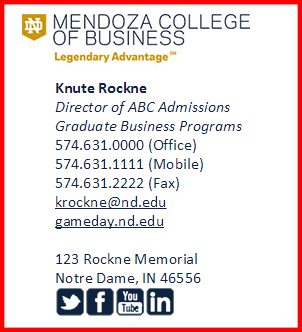
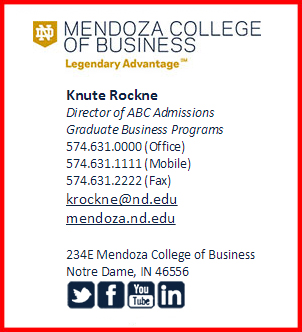
made font size smaller

Changed region(s): [[0.1788, 0.241, 0.8046, 0.6928], [0.0596, 0.0301, 0.8642, 0.2108], [0.1788, 0.753, 0.8642, 0.9639]]

diff --git a/signature/index.html b/signature/index.html
@@ -232,11 +232,11 @@ URL (optional):   </td><td>  <input id="userURL" type="text"> - Must include "ht
 <tr>
 <td height="140" valign="top" style="font-family: 'Arial, Verdana',Calibri, Helvetica, sans-serif; padding-left:33px;">
 <div id="nameDiv"  style="color: #0d233f; font-size: 16px; font-weight: 600;">Name</div>
-<div id="titleDiv" style="color: #0d233f; font-size: 16px; font-style:italic">  Title <br /> Department    </div>
-<div id="phoneDiv" style="color: #0d233f; font-size: 16px;">P: 574.631.0000 <br /> M:574.631.2222 <br />F: 574.631.1111</div>
-<div id="emailDiv" style="color: #0d233f; font-size: 16px;">email@nd.edu</div>
-<div id="linkDiv"><a href='http://mendoza.nd.edu/' style='color: #0d233f; font-size: 16px;'>mendoza.nd.edu</a></div><br>
-<div id="roomDiv" style="color: #0d233f; font-size: 16px;">Room# Mendoza <br />Notre Dame, IN 46556</div>
+<div id="titleDiv" style="color: #0d233f; font-size: 13.5px; font-style:italic">  Title <br /> Department    </div>
+<div id="phoneDiv" style="color: #0d233f; font-size: 13.5px;">P: 574.631.0000 <br /> M:574.631.2222 <br />F: 574.631.1111</div>
+<div id="emailDiv" style="color: #0d233f; font-size: 13.5px;">email@nd.edu</div>
+<div id="linkDiv"><a href='http://mendoza.nd.edu/' style='color: #0d233f; font-size: 13.5px;'>mendoza.nd.edu</a></div><br>
+<div id="roomDiv" style="color: #0d233f; font-size: 13.5px;">Room# Mendoza <br />Notre Dame, IN 46556</div>
 <div id="socialMediaDiv"></div>
 </td>
           </tr>
